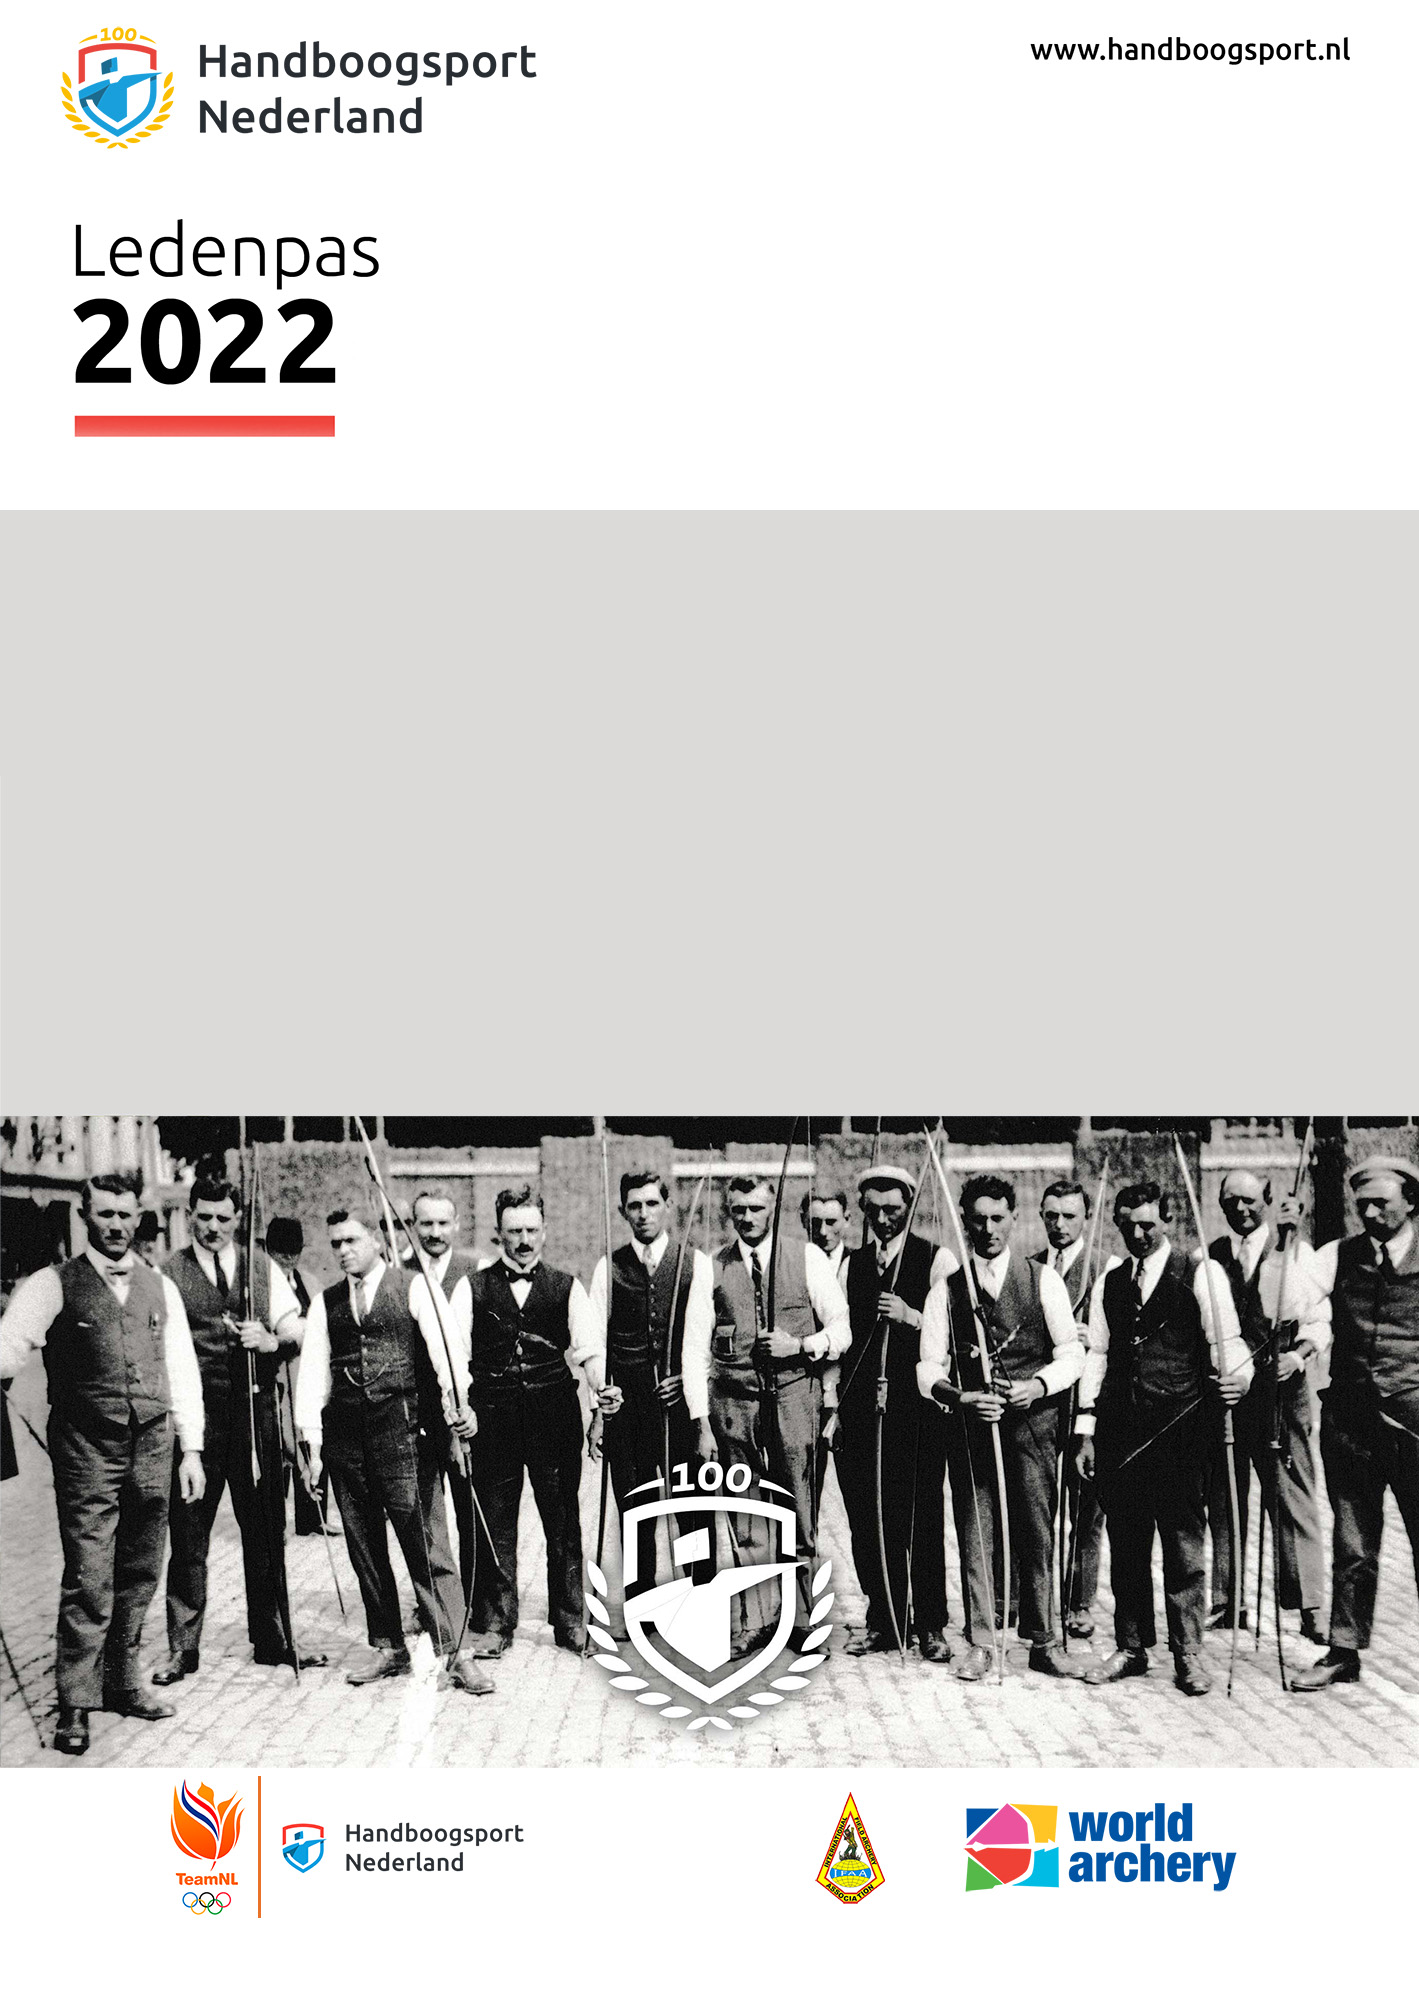
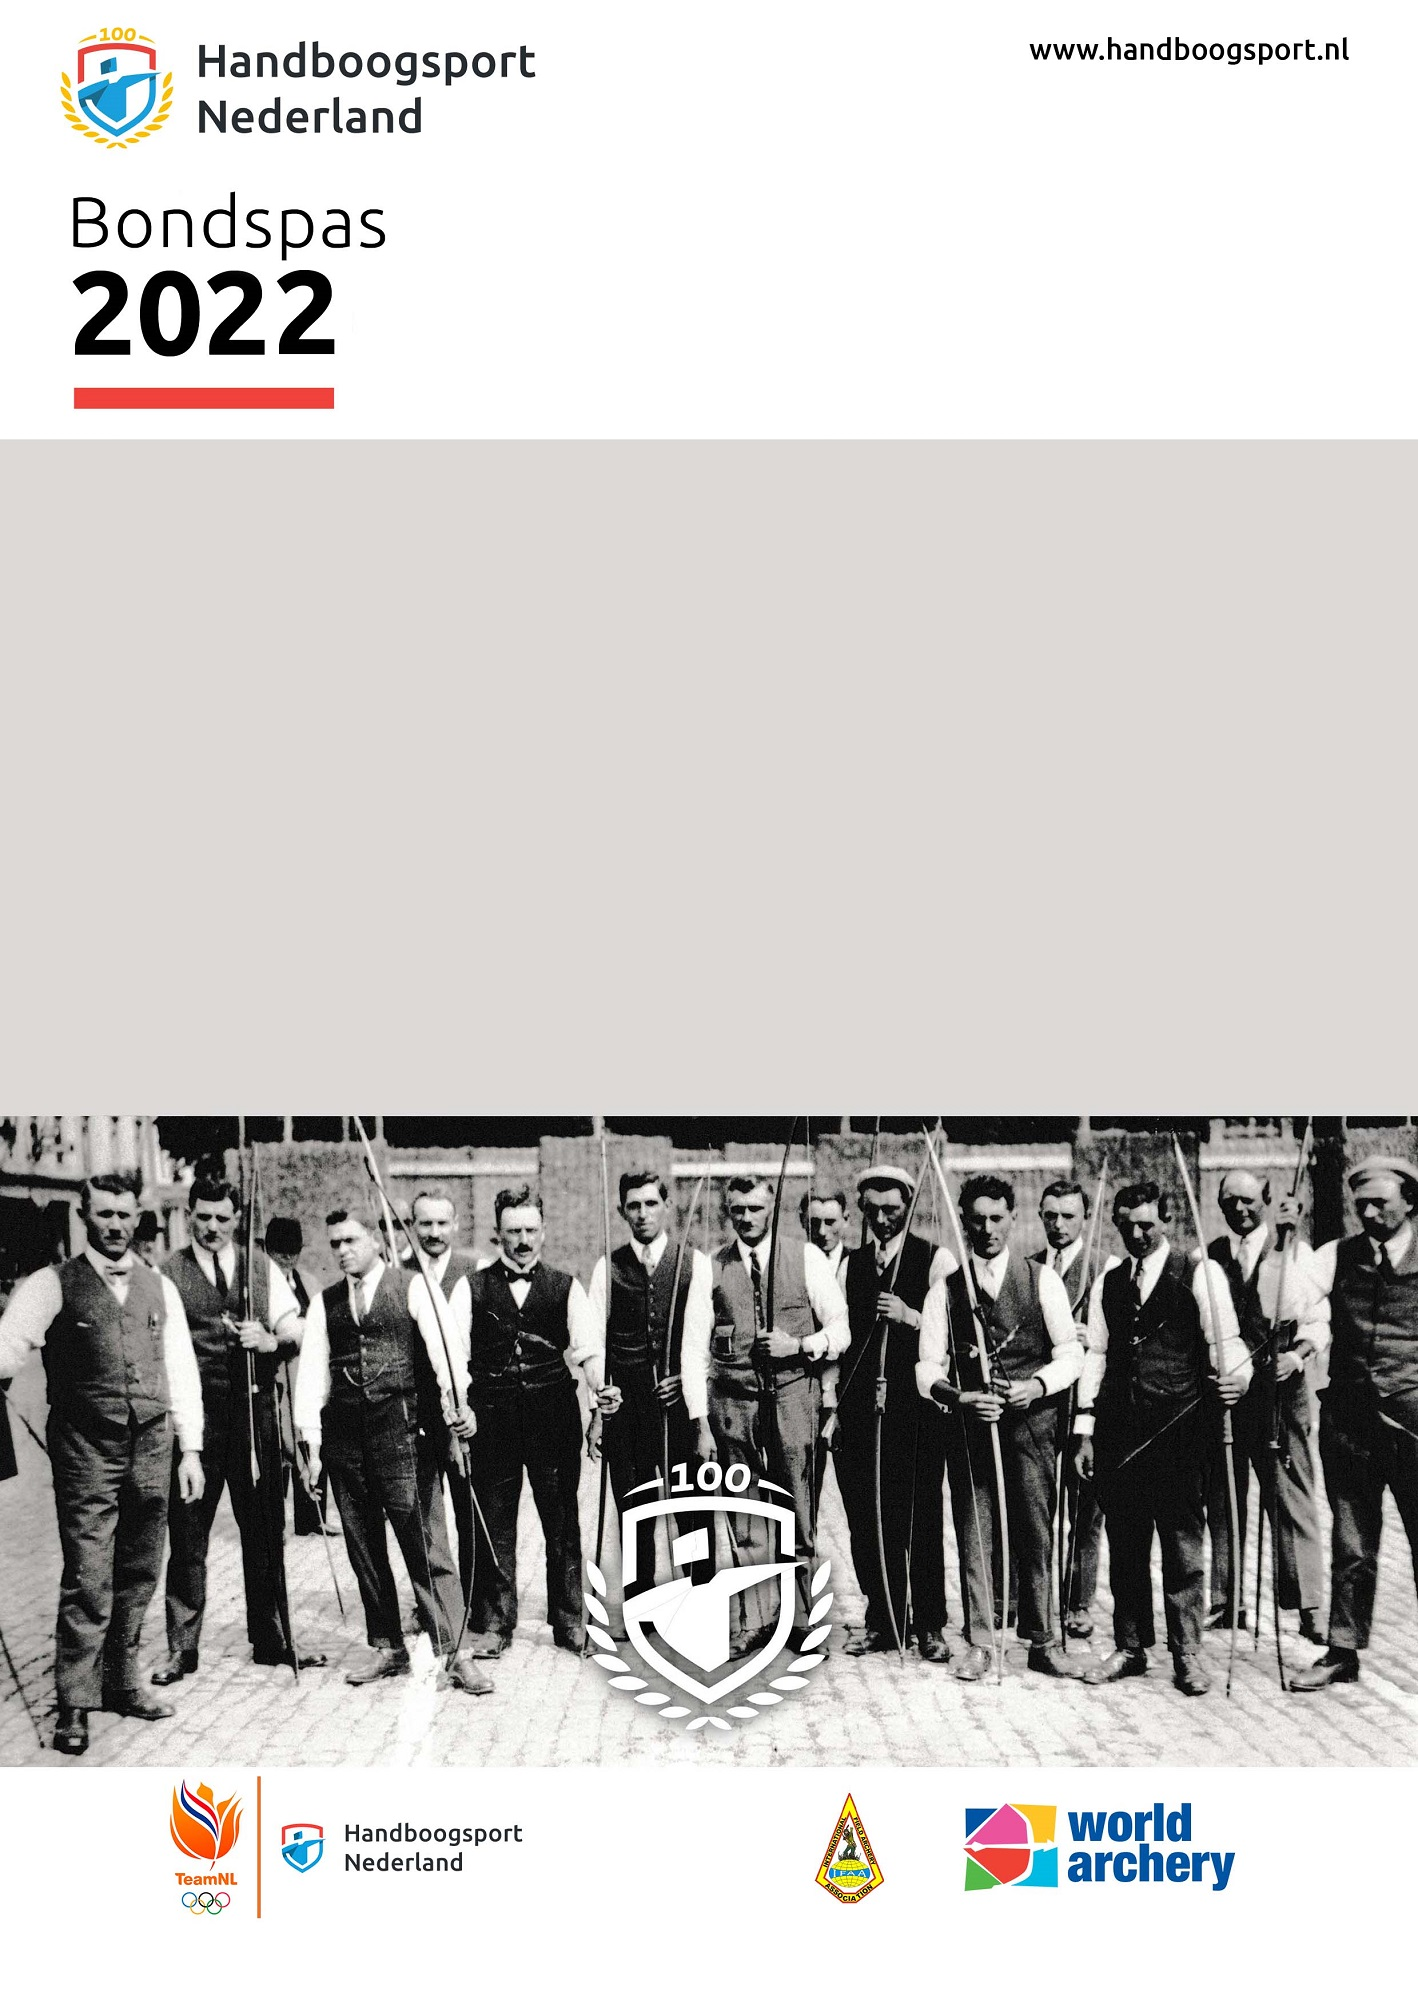
New membership card background image

diff --git a/Bondspas/view_online.py b/Bondspas/view_online.py
@@ -224,7 +224,7 @@ def maak_bondspas_image(lid_nr, jaar, regels):
     # het grijze kader waarin de tekst moet komen
     # coördinaten: (0,0) = top-left
     _, _, width, height = image.getbbox()
-    kader_y1 = 510          # bovenkant
+    kader_y1 = 440          # bovenkant
     kader_y2 = 1115         # onderkant
     kader_x1 = 0            # border is 2 pixels
     kader_x2 = width

diff --git a/nhbapps/settings_base.py b/nhbapps/settings_base.py
@@ -26,7 +26,7 @@ BASE_DIR = os.path.dirname(PROJ_DIR)
 
 # version of the site
 # this is used to keep site feedback separated by version
-SITE_VERSIE = '2022-12-11'
+SITE_VERSIE = '2022-12-12'
 
 # modules van de site
 INSTALLED_APPS = [
